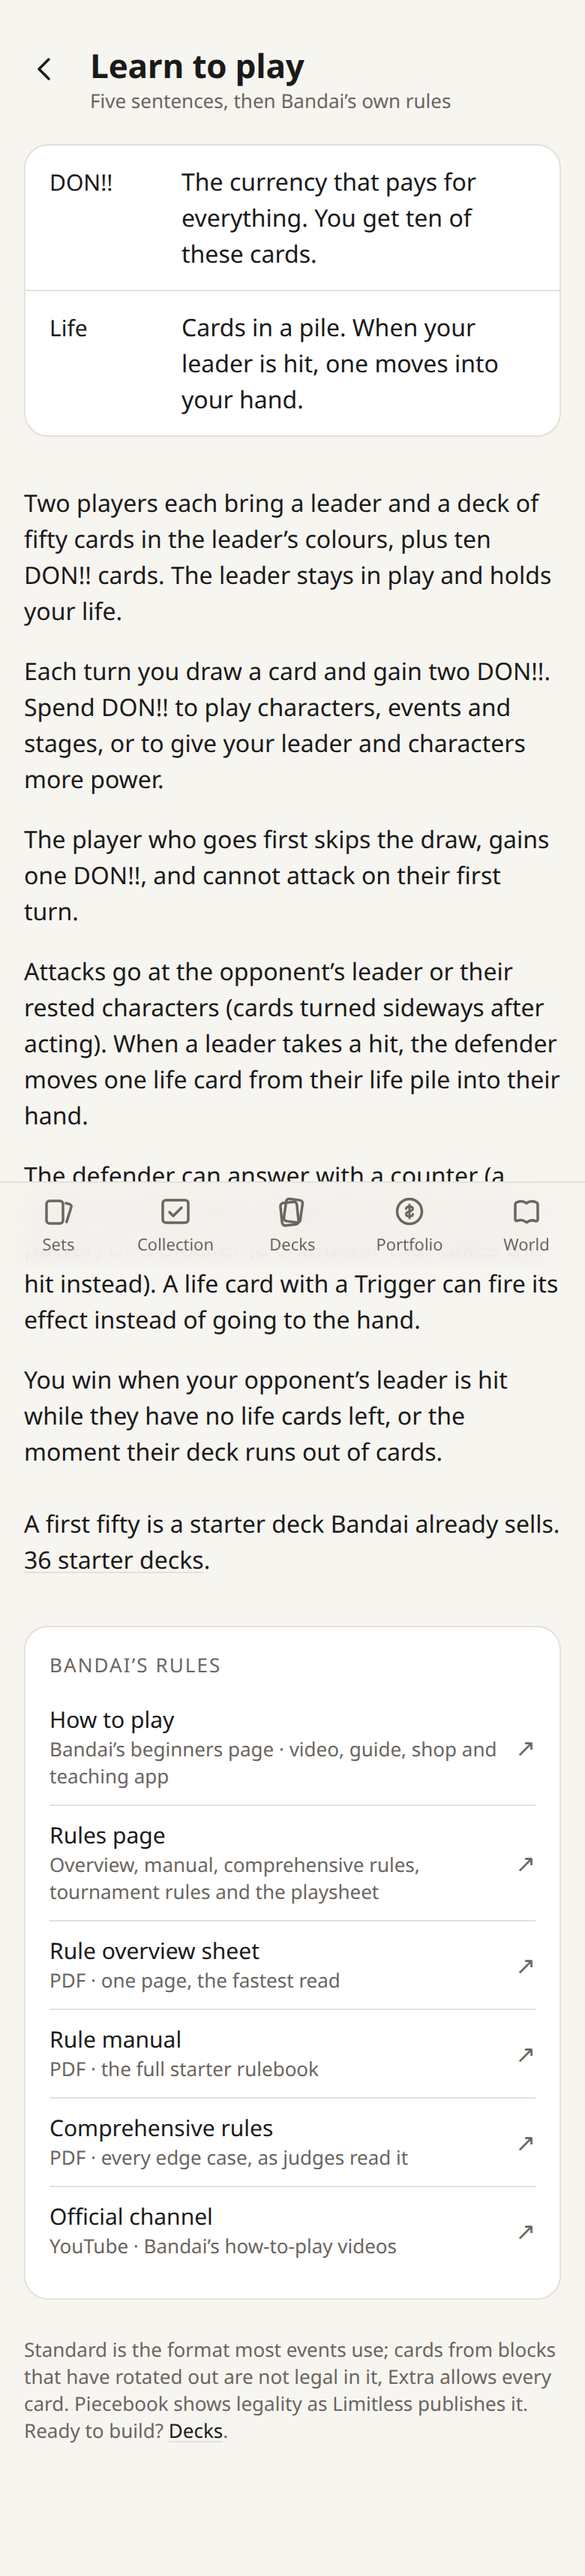
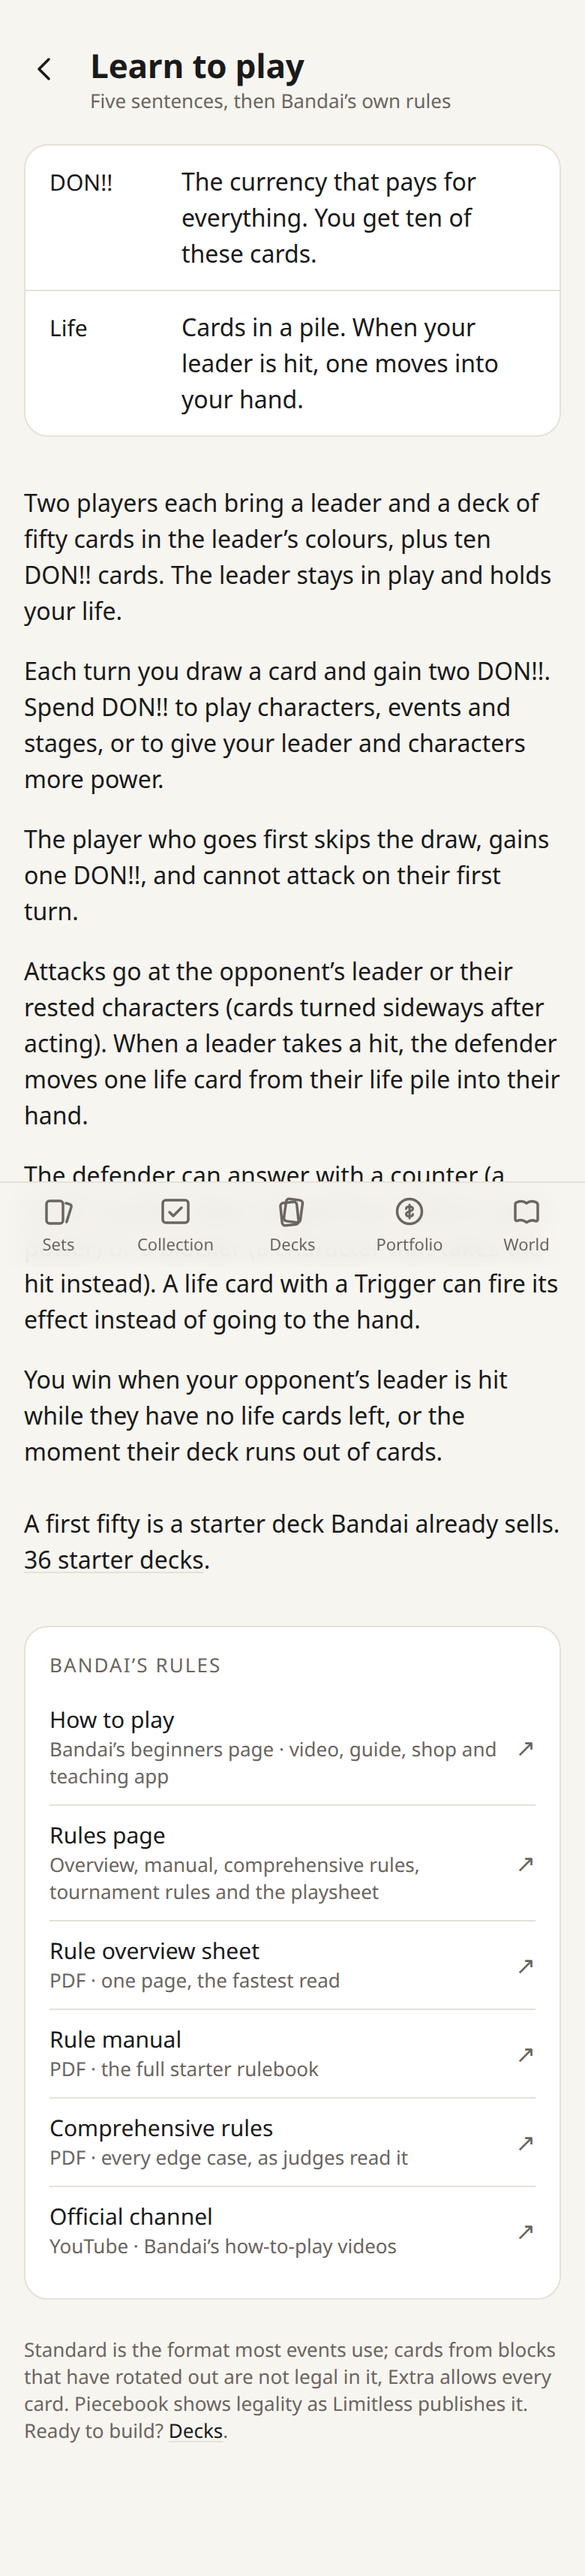
docs: phone and wide Start v3 shots after visitor-language doors
First-fold and full-page shots against vite preview. The three doors
show the OP-16 box, ST-21 Gear 5, and OP01-003 Luffy.

diff --git a/docs/review/lenses-v2/README.md b/docs/review/lenses-v2/README.md
@@ -4,7 +4,8 @@ Phone 390 and wide 1280 against `npx vite preview` of `cursor/customer-lenses-f6
 
 | File | What it shows |
 |---|---|
-| `phone-start.png` / `wide-start.png` | Visitor subline; doors Find / Learn / Story with existing box and card art |
+| `phone-start-fold.png` / `wide-start-fold.png` | First fold: subline, search, all three pictured doors |
+| `phone-start.png` / `wide-start.png` | Full Start: visitor titles, box/card art, learn line |
 | `phone-learn.png` / `wide-learn.png` | DON!! and life labeled; five sentences; 36 starter decks; Bandai how-to-play |
 | `phone-sets-fold.png` / `wide-sets-fold.png` | First fold: jump line includes **cheapest box**; tiles still oldest-first |
 | `phone-sets.png` / `wide-sets.png` | Full scroll of the same page |
